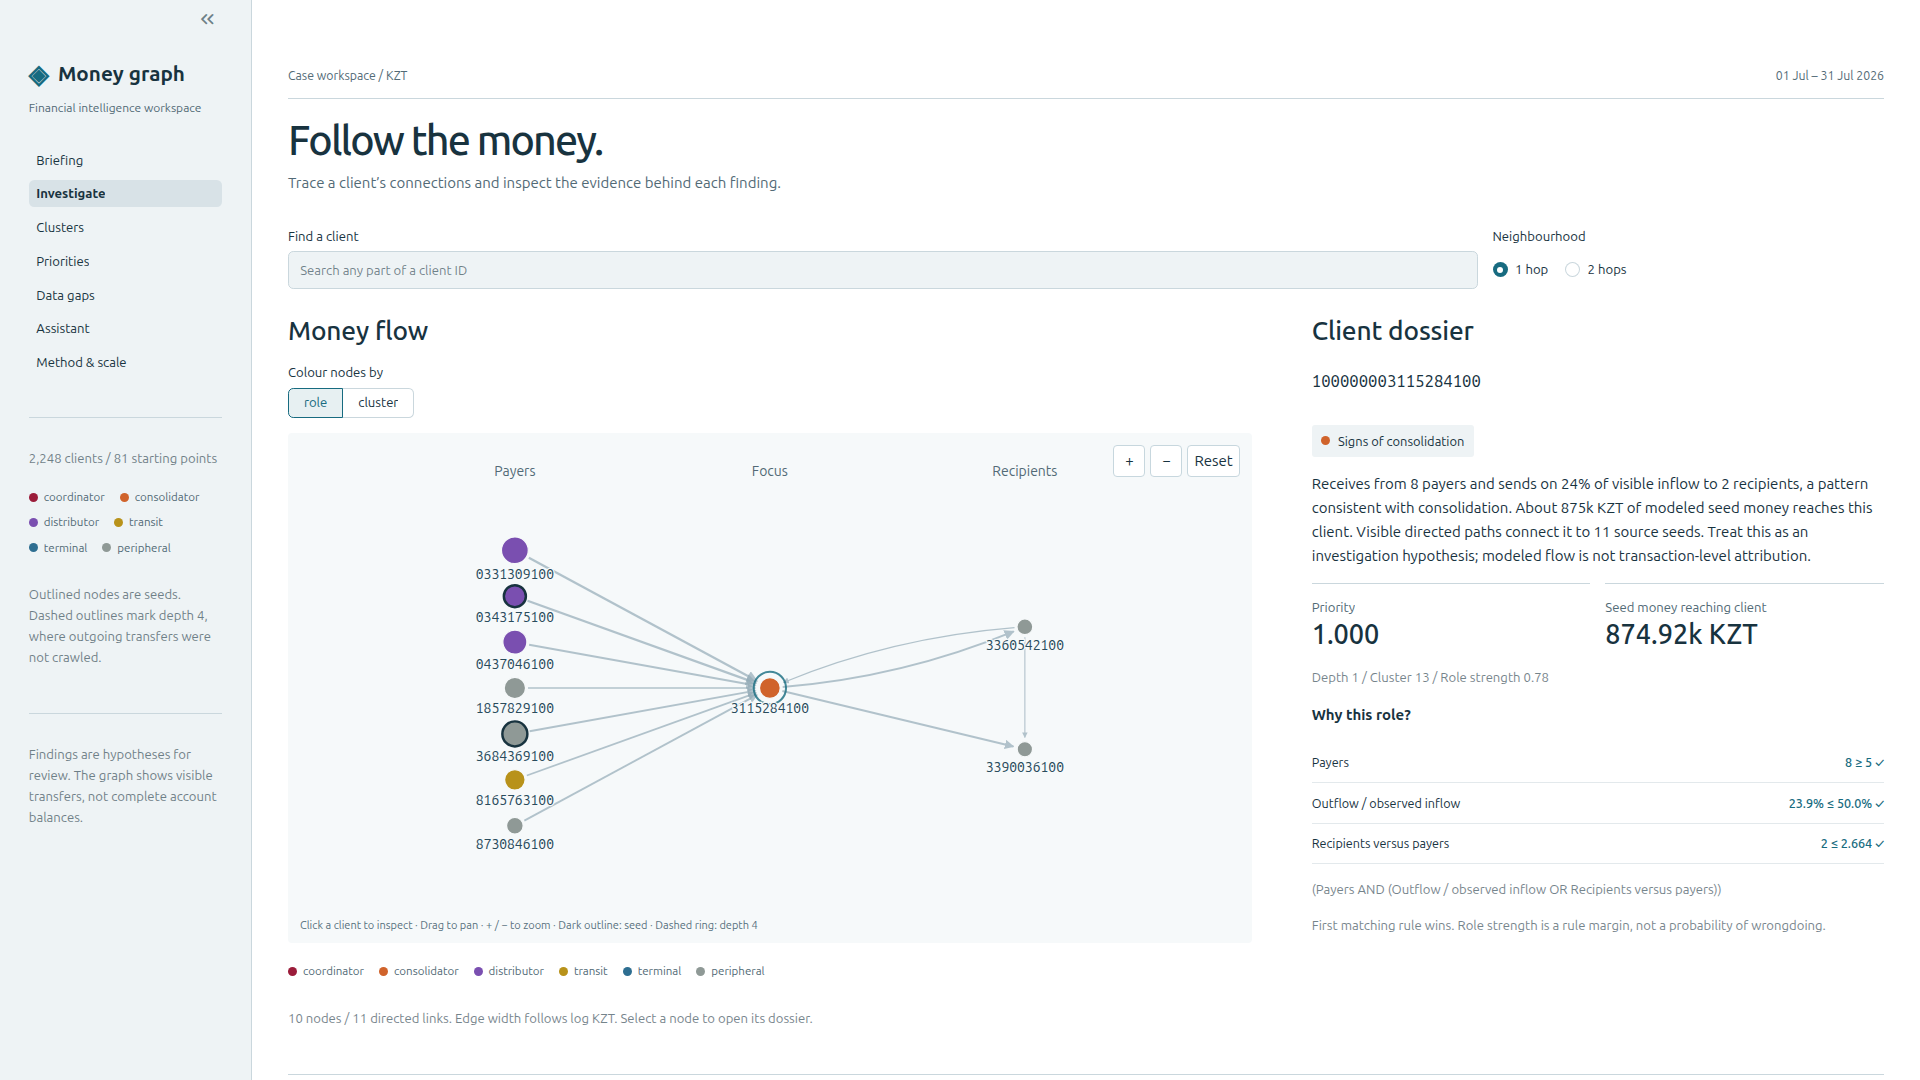
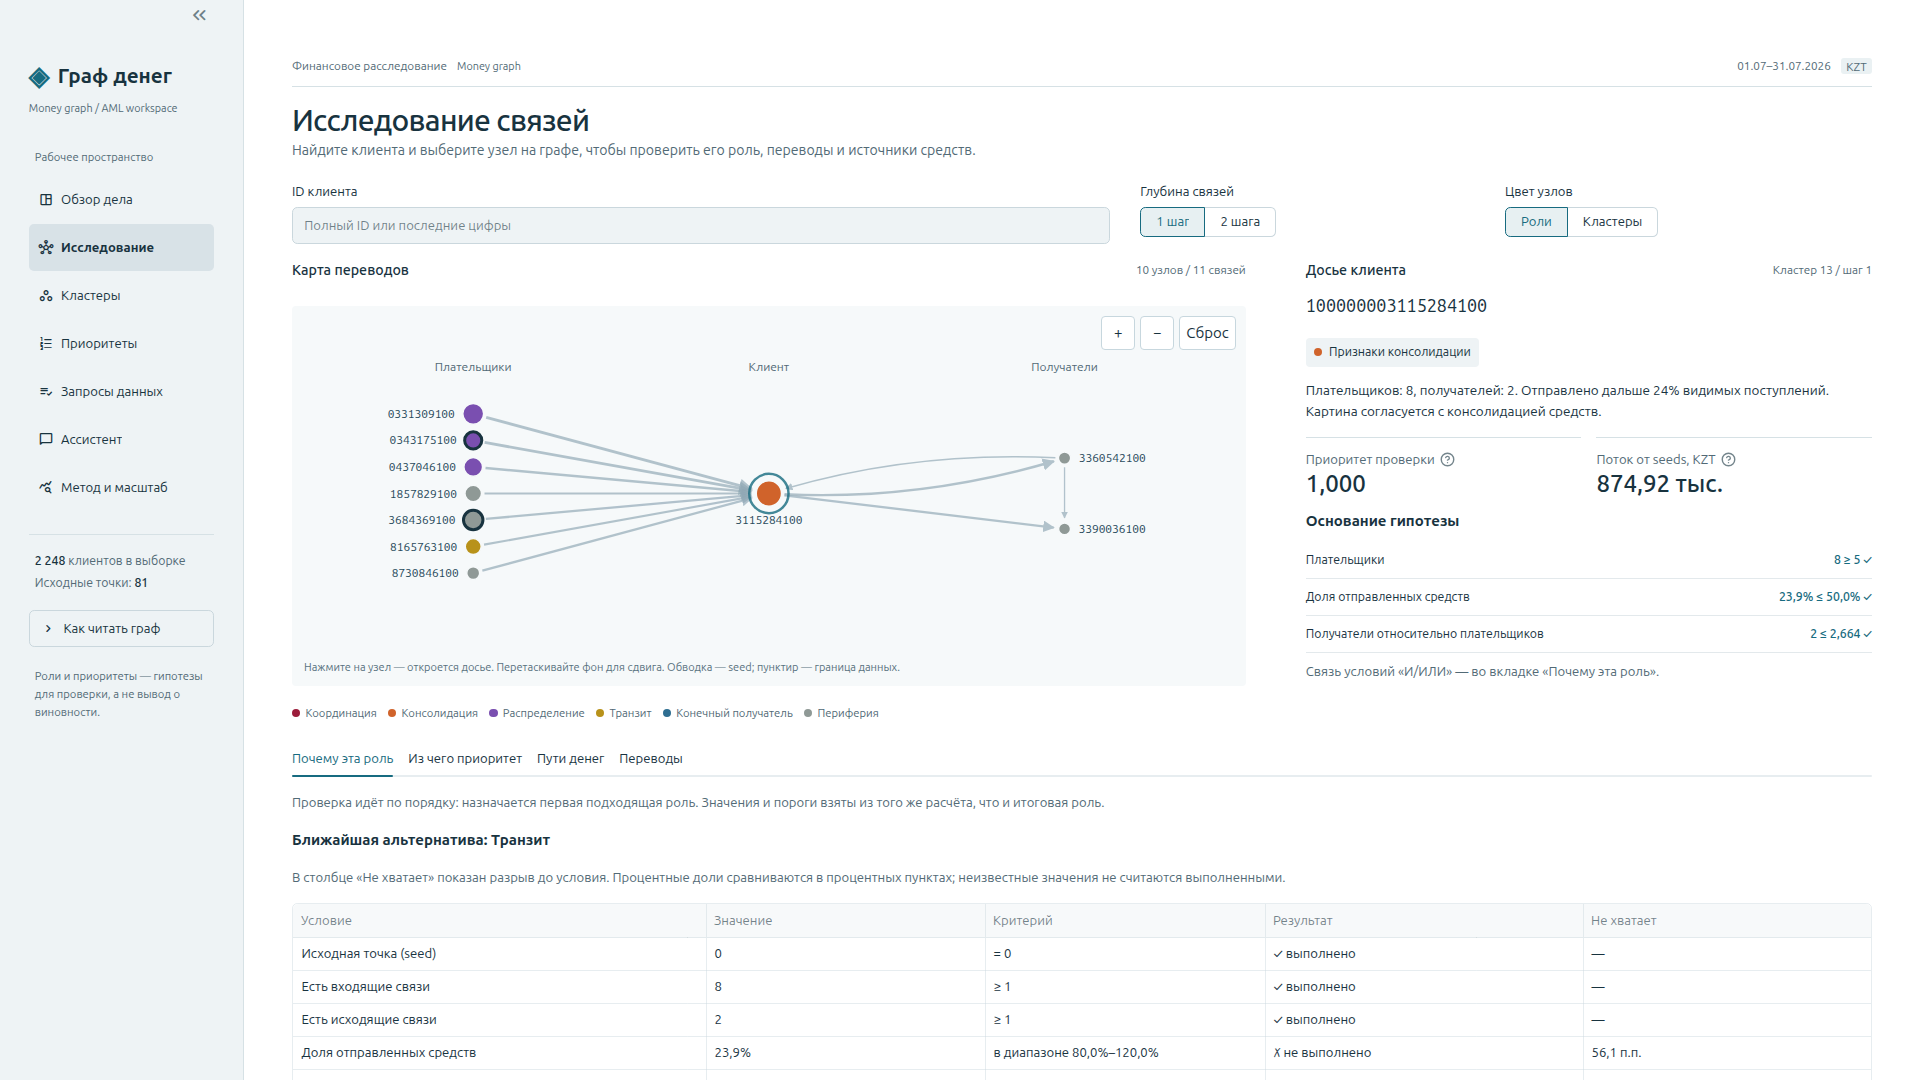
verify localized evidence and document fresh clone launch

diff --git a/tests/test_presentation.py b/tests/test_presentation.py
@@ -1,0 +1,47 @@
+"""Localization preserves exported facts, identity and uncertainty."""
+
+import pandas as pd
+
+from agent.store import GraphStore
+from app.dossier import _condition_value
+from app.presentation import CONDITIONS, DETAILS, REQUESTS, summary
+from app.theme import fmt_kzt
+from app.ui import display_table
+from moneygraph.formatting import fmt_kzt as english_kzt
+
+
+def test_localized_tables_keep_ids_and_exported_facts(pipeline):
+    store = GraphStore.load(pipeline["out"])
+    rows = store.top_nodes(30)
+    before = rows.copy(deep=True)
+    shown = display_table(rows, store)
+    pd.testing.assert_frame_equal(rows, before)
+    assert shown.gid.tolist() == [str(gid) for gid in rows.gid]
+    pd.testing.assert_series_equal(shown.priority_score, rows.priority_score)
+    assert shown.why.str.contains("исходных точек").all()
+    assert set(store.data_requests.reason) <= REQUESTS.keys()
+
+
+def test_localized_evidence_covers_rules_and_retains_boundary_uncertainty(pipeline):
+    store = GraphStore.load(pipeline["out"])
+    labels = {
+        condition["label"]
+        for trace in store.rule_traces["nodes"].values()
+        for rule in trace["rules"]
+        for condition in rule["conditions"]
+    }
+    assert labels and labels <= CONDITIONS.keys()
+    special = store.f[store.f.role.ne(store.f.role_detail)]
+    assert set(special.role_detail) <= DETAILS.keys()
+    for gid in store.f[store.f.depth.eq(4)].gid:
+        text = summary(store.get_node(gid))
+        assert "не исследованы" in text or "Нужны данные" in text
+
+
+def test_percent_gaps_and_currency_keep_their_units():
+    condition = {"field": "pass_through", "value": 0.65, "threshold": 0.5, "deficit": 0.15}
+    assert _condition_value(condition, "value") == "65,0%"
+    assert _condition_value(condition, "threshold") == "50,0%"
+    assert _condition_value(condition, "deficit") == "15,0 п.п."
+    assert fmt_kzt(1_250_000) == "1,25 млн"
+    assert english_kzt(1_250_000) == "1.25M"

diff --git a/docs/quickstart-ru.md b/docs/quickstart-ru.md
@@ -1,0 +1,45 @@
+# Запуск «Графа денег» из чистого клона
+
+Нужны Git, Docker и Docker Compose 2.24 или новее.
+
+```bash
+git clone https://github.com/BAITC-Hacks/hack-c4dedb1a-ker1mgo.git
+cd hack-c4dedb1a-ker1mgo
+docker compose up --build
+```
+
+Откройте **http://localhost:8501**. При первом запуске скачиваются зависимости;
+затем сервис `pipeline` рассчитывает материалы и завершается с кодом 0,
+а `app` запускает интерфейс. Ключ API для этого не нужен.
+
+Начните с «Обзора дела» и откройте первого кандидата. В «Исследовании» можно
+искать по полному ID или последним цифрам, выбирать узлы мышью либо Tab + Enter,
+менять глубину связей и проверять обоснование роли. Строка в «Приоритетах»
+или «Запросах данных» сразу открывает досье. Основной интерфейс — на русском;
+технические поля и CSV сохраняют английские названия.
+
+Проверить состояние: `docker compose ps -a`. Остановить: `docker compose down`.
+Если порт занят: `MONEYGRAPH_PORT=8502 docker compose up --build`, затем
+откройте http://localhost:8502.
+
+## Без Docker
+
+Нужны Python 3.12 и `make`. После клонирования, из корня проекта:
+
+```bash
+python3.12 -m venv .venv
+source .venv/bin/activate
+pip install -r requirements.txt
+make run
+make app
+```
+
+Адрес тот же: **http://localhost:8501**. Для проверки разработки:
+
+```bash
+pip install -r requirements-dev.txt
+make check
+```
+
+Ассистент подключается отдельно: см. [настройку ассистента](assistant.md).
+Остальные разделы работают офлайн после установки зависимостей.
